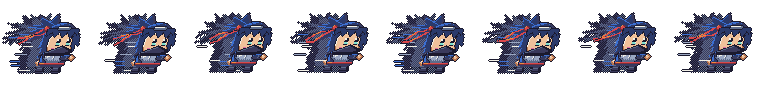
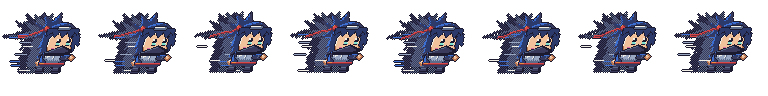
Clean up flicker sprites
Shade: topknot redrawn as four fat tapered tufts (was thin needles with doubled
outlines); the two outlined ribbon streamers are now one 3 px two-tone tassel
(also in the grapple zip pose).

Claude-Session: https://claude.ai/code/session_01J8LgTLVYzThXjNSRVhWqep

diff --git a/tools/sprites/generate.py b/tools/sprites/generate.py
@@ -184,6 +184,15 @@ def sleeve_detail(c: Canvas, x: int):
     c.dot(x + 4, 39, SHADOW)
 
 
+def tassel(c: Canvas, pts, notch: bool = True) -> None:
+    """A 3 px band of red cloth along `pts`: shaded right column, a V notch cut in its tip."""
+    c.part(L(pts, 3), RED, shade=False)
+    c.flat(L([(x + 1, y) for x, y in pts], 1), MAROON)
+    x, y = pts[-1]
+    for dy in (0, 1) if notch else ():
+        c.px[x, y + dy] = (0, 0, 0, 0)
+
+
 def flicker(step=None, t=0, zip_=False):
     """Shade, a kunoichi: a choppy jagged bob with a big spiky topknot that swings in the wind, red ribbon tails fluttering from its tie, a steel forehead
     plate, big lashed teal eyes over a mask that peaks at the bridge of her nose; fitted navy shroud, a metal
@@ -229,10 +238,9 @@ def flicker(step=None, t=0, zip_=False):
     else:
         arm(up, ARM_X[1], NAVY, SKIN)
         sleeve_detail(up, ARM_X[1])
-    # ribbon tails: two thin red streamers hanging from the topknot's tie, fluttering behind her head
-    for x0, lag in ((18, 1), (21, 2)) if not zip_ else ():
-        up.part(L([(x0, 10), (x0 - 7 - wave(lag, 1), 20), (x0 - 12 - wave(lag + 1, 2), 30),
-                   (x0 - 13 - wave(lag + 2, 2), 37)], 2), RED, shade=False)
+    # ribbon tail: one band of red cloth hanging from the topknot's tie, fluttering behind her head
+    if not zip_:
+        tassel(up, [(17, 12), (13 - wave(1, 1), 20), (10 - wave(2, 1), 29), (9 - wave(3, 1), 37)])
     up.part(RR((14, 8, 20, 13), 2), RED)  # tie round the topknot's base, half hidden behind her hair
     # choppy bob: the head's hair ends in jagged points round the back of her neck
     up.part(lambda d, f: (d.ellipse((16, 5, 50, 36), f), d.polygon(
@@ -264,11 +272,10 @@ def flicker_topknot(t: int, dy: int) -> Canvas:
     c = Canvas(CELL)
     wave = lambda lag, amp: round(HAIR_FLOW[(t - lag) % 4] * amp)
     at = lambda pts: [(PAD + x, PAD + UPPER_DY + dy + y) for x, y in pts]  # art px -> cell px
-    c.part(P(at([(29, 9), (25 - wave(0, 1), -4), (19 - wave(0, 1), 3), (9 - wave(1, 1.5), -3), (12 - wave(1, 1), 7),
-                 (-2 - wave(2, 2), 5), (9 - wave(2, 1), 11), (-3 - wave(3, 2), 15), (10 - wave(2, 1), 16),
-                 (2 - wave(3, 1.5), 24), (19, 18)])), NAVY)
-    c.flat(L(at([(22, 6), (12 - wave(1, 1.5), 0)]), 1), BLUE)  # its sheen
-    c.flat(L(at([(15, 10), (2 - wave(2, 2), 9)]), 1), BLUE)
+    c.part(P(at([(30, 9), (27 - wave(0, 1), -5), (21, 3), (11 - wave(1, 1), -4), (15, 8), (3 - wave(2, 1), 3), (13, 14),
+                 (5 - wave(3, 1), 21), (19, 18)])), NAVY)
+    c.flat(L(at([(23, 2), (26 - wave(0, 1), -3)]), 1), BLUE)  # sheen on each tuft's lit edge
+    c.flat(L(at([(15, 5), (13 - wave(1, 1), -1)]), 1), BLUE)
     return c
 
 
@@ -297,11 +304,10 @@ def flicker_zip(i: int) -> Image.Image:
     bob = [0, 0, 1, 1, 0, 0, 1, 1][i]  # the whole body judders a px as the chain tugs
     rib = Canvas(CELL)
     y0 = PAD + UPPER_DY + 10
-    for k, (x0, dy) in enumerate(((PAD + 18, 0), (PAD + 20, 3))):
-        w = lambda lag: snap[(i + 2 * lag + 3 * k) % 8]
-        rib.part(L([(x0, y0 + dy), (x0 - 7, y0 + dy + 3 + w(0)), (x0 - 14, y0 + dy + 6 + w(1)),
-                    (x0 - 21, y0 + dy + 10 + w(2)), (x0 - 27, y0 + dy + 12 + w(3))], 2), RED, shade=False)
-        rib.flat(L([(x0 - 14, y0 + dy + 5 + w(1)), (x0 - 20, y0 + dy + 8 + w(2))], 1), ORANGE)  # lit stretch
+    w = lambda lag: snap[(i + 2 * lag) % 8] // 2  # one streaming tail, kinks a px at a time
+    x0 = PAD + 18
+    tassel(rib, [(x0, y0), (x0 - 7, y0 + 3 + w(0)), (x0 - 14, y0 + 5 + w(1)), (x0 - 21, y0 + 8 + w(2)),
+                 (x0 - 27, y0 + 9 + w(3))], notch=False)
     f.alpha_composite(rib.img)
     f.alpha_composite(low.img, (PAD - 2, PAD - 1))  # legs trail a little, toes off the floor
     f.alpha_composite(up.img, (PAD, PAD + UPPER_DY))
